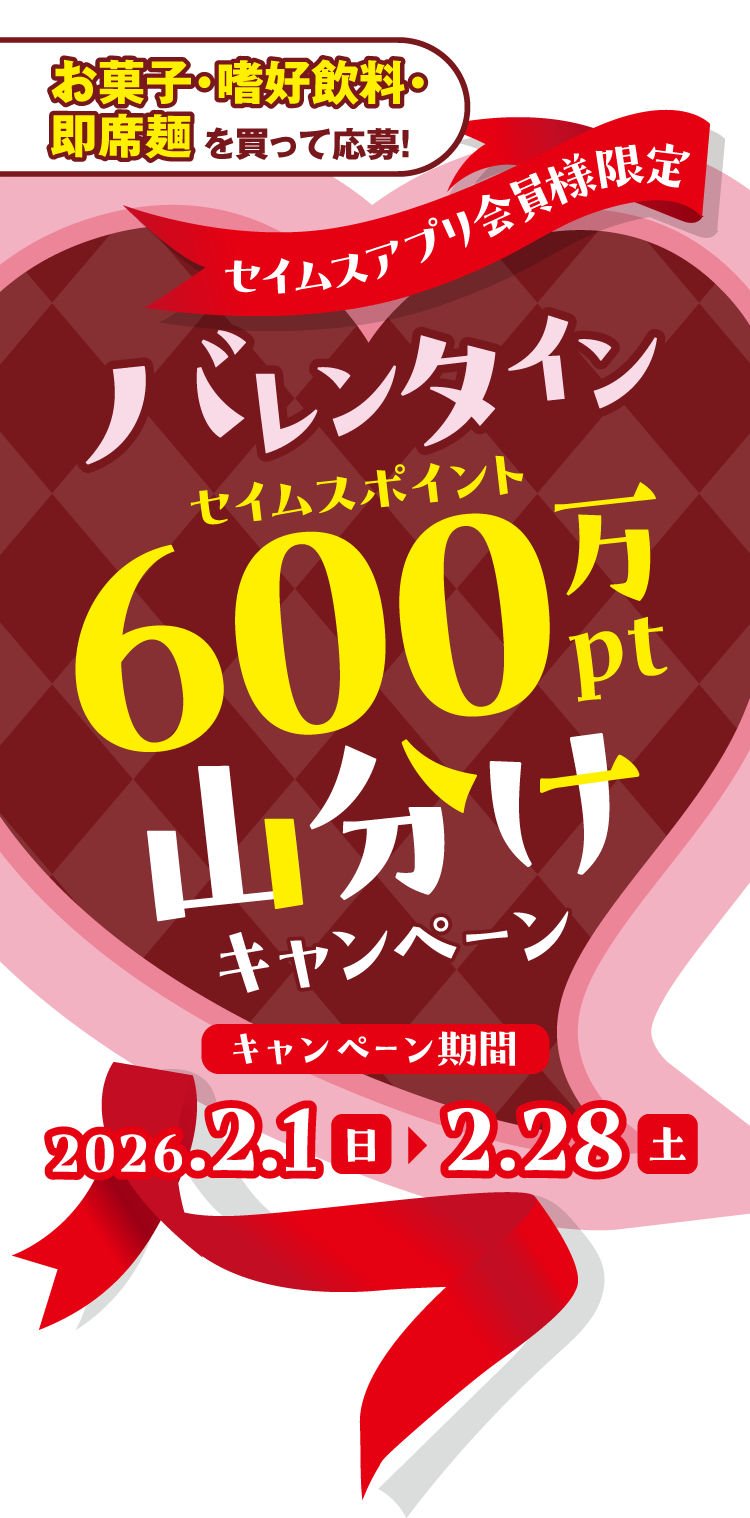
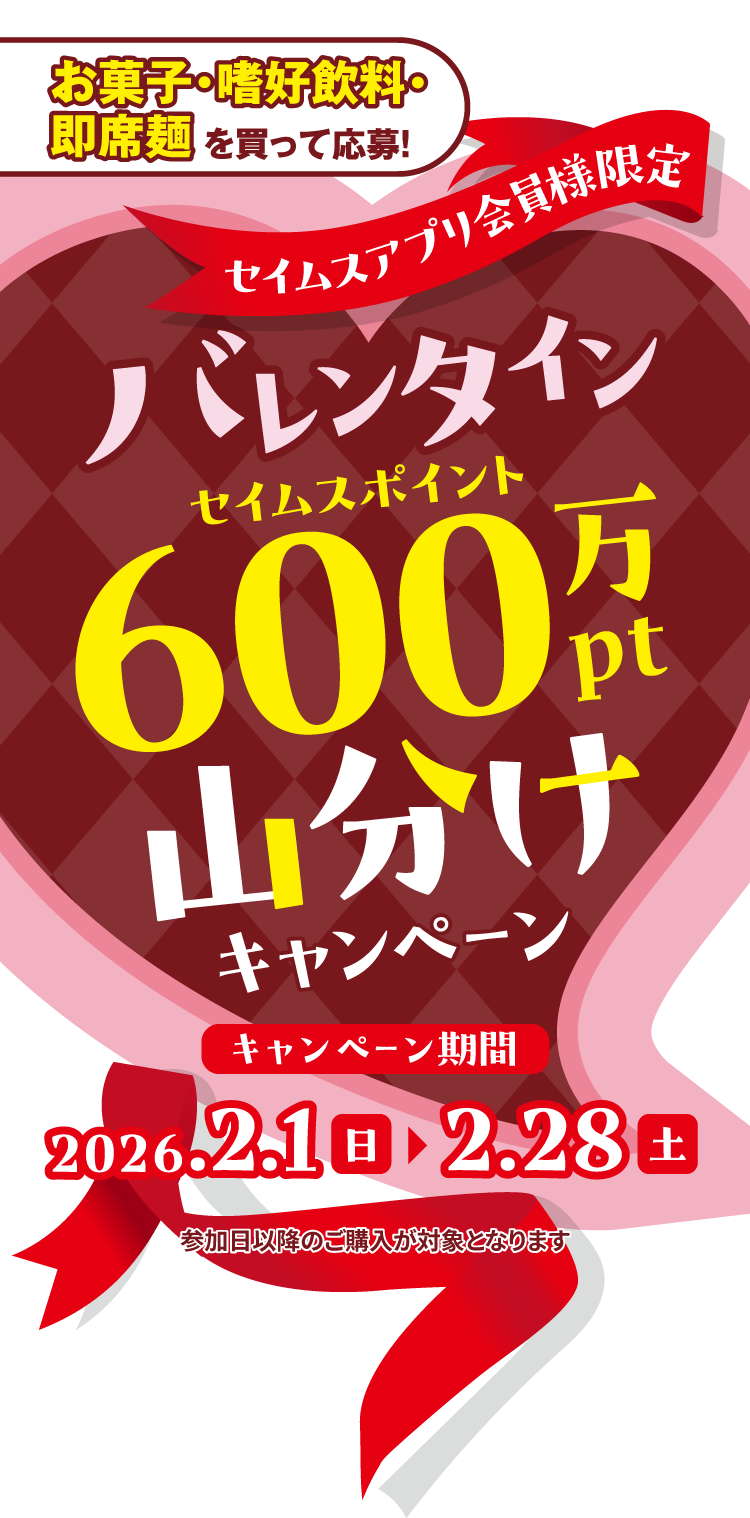
260121 清水 valentine 画像修正、対象商品の注意事項を追加

Changed region(s): [[0.2453, 0.805, 0.7667, 0.836]]

diff --git a/valentine/app.html b/valentine/app.html
@@ -1,6 +1,6 @@
 <!-- @format -->
 
-<!DOCTYPE html>
+<!doctype html>
 <html lang="ja">
   <head>
     <meta charset="utf-8" />
@@ -50,10 +50,7 @@
     <!-- End Google Tag Manager -->
   </head>
 
-  <?php
-  date_default_timezone_set('Asia/Tokyo');
-  $cpToday = date("Ymd"); //今日の日付
-?>
+  <?php date_default_timezone_set('Asia/Tokyo'); $cpToday = date("Ymd"); //今日の日付 ?>
 
   <body id="entry">
     <!-- Google Tag Manager (noscript) -->
@@ -320,9 +317,58 @@
                 </div>
                 <div class="swiper-scrollbar pd-scroll01"></div>
               </div>
+              <dl class="toggle_contents_other inner88 mt20">
+                <dt class="toggle_title_other btn">
+                  対象商品の注意事項<span class="toggle_btn_other"></span>
+                </dt>
+                <dd class="toggle_contents_other_bk">
+                  <ul class="info_list">
+                    <li>
+                      <p class="listName">UCC上島珈琲</p>
+                      <p class="listData">飲料は対象外</p>
+                    </li>
+                    <li>
+                      <p class="listName">春日井製菓</p>
+                      <p class="listData">お菓子のみ対象（サプリメントは対象外）</p>
+                    </li>
+                    <li>
+                      <p class="listName">キーコーヒー</p>
+                      <p class="listData">飲料は対象外</p>
+                    </li>
+                    <li>
+                      <p class="listName">三幸製菓</p>
+                      <p class="listData">お菓子のみ対象（アイス・健康食品は対象外）</p>
+                    </li>
+                    <li>
+                      <p class="listName">東洋水産</p>
+                      <p class="listData">日配品は対象外</p>
+                    </li>
+                    <li>
+                      <p class="listName">日清製粉ウェルナ</p>
+                      <p class="listData">冷凍食品は対象外</p>
+                    </li>
+                    <li>
+                      <p class="listName">日清食品</p>
+                      <p class="listData">冷凍食品は対象外</p>
+                    </li>
+                    <li>
+                      <p class="listName">ネスレ日本</p>
+                      <p class="listData">飲料は対象外</p>
+                    </li>
+                    <li>
+                      <p class="listName">ハウス食品</p>
+                      <p class="listData">健康食品は対象外</p>
+                    </li>
+                    <li>
+                      <p class="listName">UHA味覚糖</p>
+                      <p class="listData">お菓子のみ対象（飲料、チルドは対象外）</p>
+                    </li>
+                  </ul>
+                </dd>
+              </dl>
               <ul class="noteList inner88 mt20">
                 <li>⼀部お取り扱いのない商品、店舗がございます。</li>
-                <li>ネスレ日本、UCC上島珈琲、キーコーヒーは飲料対象外となります。</li>
+                <li>対象商品詳細は上記「対象商品の注意事項」をご確認ください。</li>
               </ul>
             </section>
             <!-- 対象商品一例 -->

diff --git a/valentine/index.html b/valentine/index.html
@@ -1,6 +1,6 @@
 <!-- @format -->
 
-<!DOCTYPE html>
+<!doctype html>
 <html lang="ja">
   <head>
     <meta charset="utf-8" />
@@ -50,10 +50,7 @@
     <!-- End Google Tag Manager -->
   </head>
 
-  <?php
-  date_default_timezone_set('Asia/Tokyo');
-  $cpToday = date("Ymd"); //今日の日付
-?>
+  <?php date_default_timezone_set('Asia/Tokyo'); $cpToday = date("Ymd"); //今日の日付 ?>
 
   <body id="">
     <!-- Google Tag Manager (noscript) -->
@@ -320,9 +317,58 @@
                 </div>
                 <div class="swiper-scrollbar pd-scroll01"></div>
               </div>
+              <dl class="toggle_contents_other inner88 mt20">
+                <dt class="toggle_title_other btn">
+                  対象商品の注意事項<span class="toggle_btn_other"></span>
+                </dt>
+                <dd class="toggle_contents_other_bk">
+                  <ul class="info_list">
+                    <li>
+                      <p class="listName">UCC上島珈琲</p>
+                      <p class="listData">飲料は対象外</p>
+                    </li>
+                    <li>
+                      <p class="listName">春日井製菓</p>
+                      <p class="listData">お菓子のみ対象（サプリメントは対象外）</p>
+                    </li>
+                    <li>
+                      <p class="listName">キーコーヒー</p>
+                      <p class="listData">飲料は対象外</p>
+                    </li>
+                    <li>
+                      <p class="listName">三幸製菓</p>
+                      <p class="listData">お菓子のみ対象（アイス・健康食品は対象外）</p>
+                    </li>
+                    <li>
+                      <p class="listName">東洋水産</p>
+                      <p class="listData">日配品は対象外</p>
+                    </li>
+                    <li>
+                      <p class="listName">日清製粉ウェルナ</p>
+                      <p class="listData">冷凍食品は対象外</p>
+                    </li>
+                    <li>
+                      <p class="listName">日清食品</p>
+                      <p class="listData">冷凍食品は対象外</p>
+                    </li>
+                    <li>
+                      <p class="listName">ネスレ日本</p>
+                      <p class="listData">飲料は対象外</p>
+                    </li>
+                    <li>
+                      <p class="listName">ハウス食品</p>
+                      <p class="listData">健康食品は対象外</p>
+                    </li>
+                    <li>
+                      <p class="listName">UHA味覚糖</p>
+                      <p class="listData">お菓子のみ対象（飲料、チルドは対象外）</p>
+                    </li>
+                  </ul>
+                </dd>
+              </dl>
               <ul class="noteList inner88 mt20">
                 <li>⼀部お取り扱いのない商品、店舗がございます。</li>
-                <li>ネスレ日本、UCC上島珈琲、キーコーヒーは飲料対象外となります。</li>
+                <li>対象商品詳細は上記「対象商品の注意事項」をご確認ください。</li>
               </ul>
             </section>
             <!-- 対象商品一例 -->

diff --git a/valentine/mypage.html b/valentine/mypage.html
@@ -1,6 +1,6 @@
 <!-- @format -->
 
-<!DOCTYPE html>
+<!doctype html>
 <html lang="ja">
   <head>
     <meta charset="utf-8" />
@@ -50,10 +50,7 @@
     <!-- End Google Tag Manager -->
   </head>
 
-  <?php
-  date_default_timezone_set('Asia/Tokyo');
-  $cpToday = date("Ymd"); //今日の日付
-?>
+  <?php date_default_timezone_set('Asia/Tokyo'); $cpToday = date("Ymd"); //今日の日付 ?>
 
   <body>
     <!-- Google Tag Manager (noscript) -->
@@ -395,9 +392,58 @@
                 </div>
                 <div class="swiper-scrollbar pd-scroll01"></div>
               </div>
+              <dl class="toggle_contents_other inner88 mt20">
+                <dt class="toggle_title_other btn">
+                  対象商品の注意事項<span class="toggle_btn_other"></span>
+                </dt>
+                <dd class="toggle_contents_other_bk">
+                  <ul class="info_list">
+                    <li>
+                      <p class="listName">UCC上島珈琲</p>
+                      <p class="listData">飲料は対象外</p>
+                    </li>
+                    <li>
+                      <p class="listName">春日井製菓</p>
+                      <p class="listData">お菓子のみ対象（サプリメントは対象外）</p>
+                    </li>
+                    <li>
+                      <p class="listName">キーコーヒー</p>
+                      <p class="listData">飲料は対象外</p>
+                    </li>
+                    <li>
+                      <p class="listName">三幸製菓</p>
+                      <p class="listData">お菓子のみ対象（アイス・健康食品は対象外）</p>
+                    </li>
+                    <li>
+                      <p class="listName">東洋水産</p>
+                      <p class="listData">日配品は対象外</p>
+                    </li>
+                    <li>
+                      <p class="listName">日清製粉ウェルナ</p>
+                      <p class="listData">冷凍食品は対象外</p>
+                    </li>
+                    <li>
+                      <p class="listName">日清食品</p>
+                      <p class="listData">冷凍食品は対象外</p>
+                    </li>
+                    <li>
+                      <p class="listName">ネスレ日本</p>
+                      <p class="listData">飲料は対象外</p>
+                    </li>
+                    <li>
+                      <p class="listName">ハウス食品</p>
+                      <p class="listData">健康食品は対象外</p>
+                    </li>
+                    <li>
+                      <p class="listName">UHA味覚糖</p>
+                      <p class="listData">お菓子のみ対象（飲料、チルドは対象外）</p>
+                    </li>
+                  </ul>
+                </dd>
+              </dl>
               <ul class="noteList inner88 mt20">
                 <li>⼀部お取り扱いのない商品、店舗がございます。</li>
-                <li>ネスレ日本、UCC上島珈琲、キーコーヒーは飲料対象外となります。</li>
+                <li>対象商品詳細は上記「対象商品の注意事項」をご確認ください。</li>
               </ul>
             </section>
             <!-- 対象商品一例 -->

diff --git a/valentine/css/202602-valentine.css b/valentine/css/202602-valentine.css
@@ -112,7 +112,9 @@ main {
 
 /* bg */
 .bg1 {
-  background: url(../img/common/bg.png) repeat-y center top / 100%, var(--pink1);
+  background:
+    url(../img/common/bg.png) repeat-y center top / 100%,
+    var(--pink1);
 }
 .bg2 {
   background: var(--pink2);
@@ -624,9 +626,8 @@ main {
   margin: 0 auto;
   position: relative;
   cursor: pointer;
-  background: #fff;
-  color: var(--red);
-  border: 1px solid var(--red);
+  background: var(--pink2);
+  color: #fff;
 }
 
 .toggle_title_other.rule_title {
@@ -650,7 +651,7 @@ main {
 .toggle_btn_other:after {
   display: block;
   content: "";
-  background-color: var(--red);
+  background-color: #fff;
   position: absolute;
   width: 3.4vw;
   height: 3px;
@@ -732,7 +733,7 @@ main {
   margin-bottom: 5px;
   display: flex;
   justify-content: space-between;
-  gap: 15px;
+  gap: 10px;
   font-size: 14px;
   font-weight: 400;
   line-height: 1.4;
